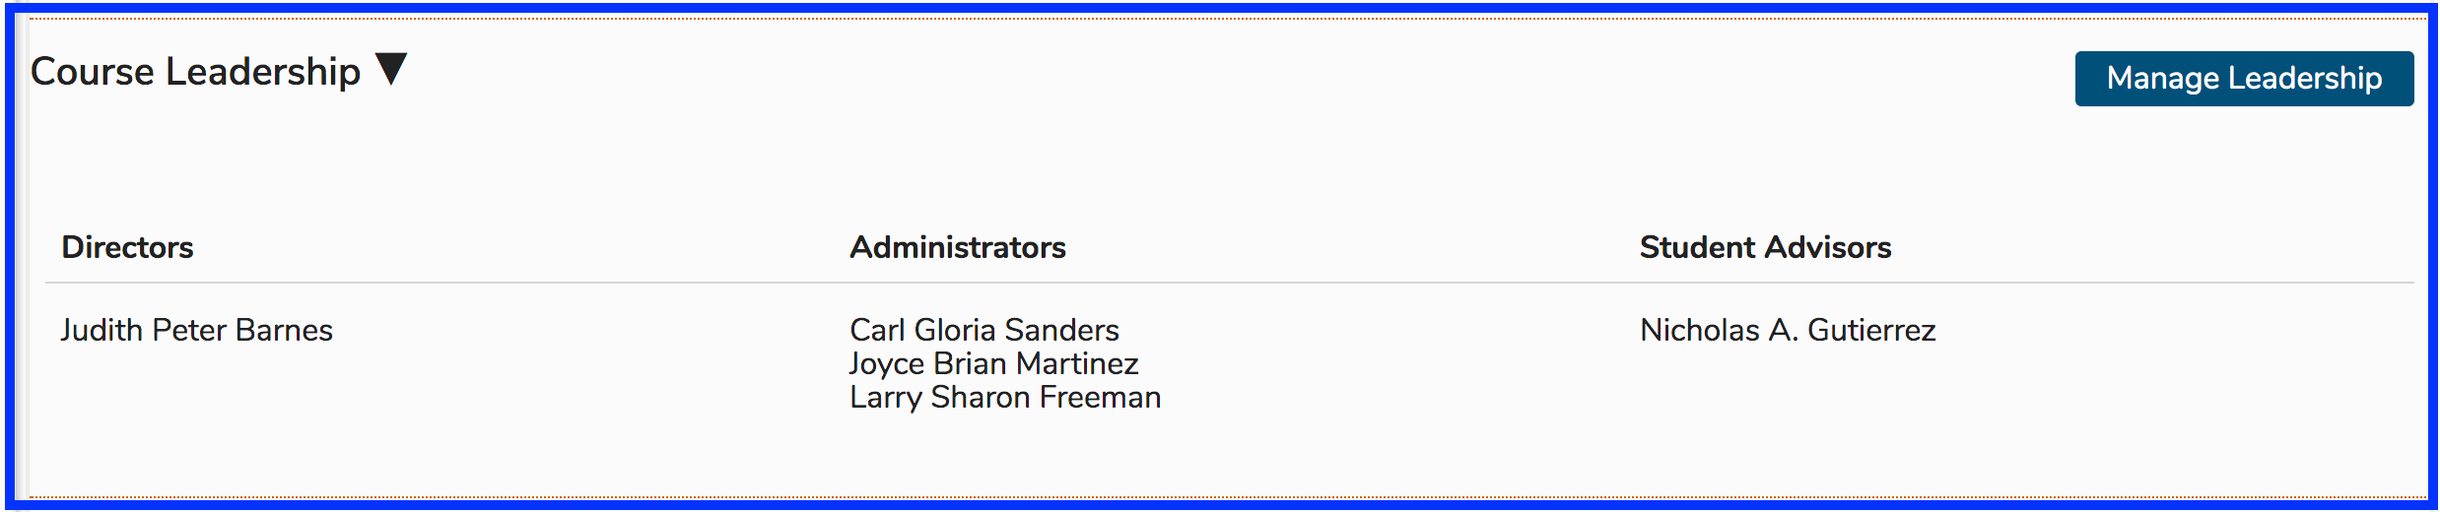
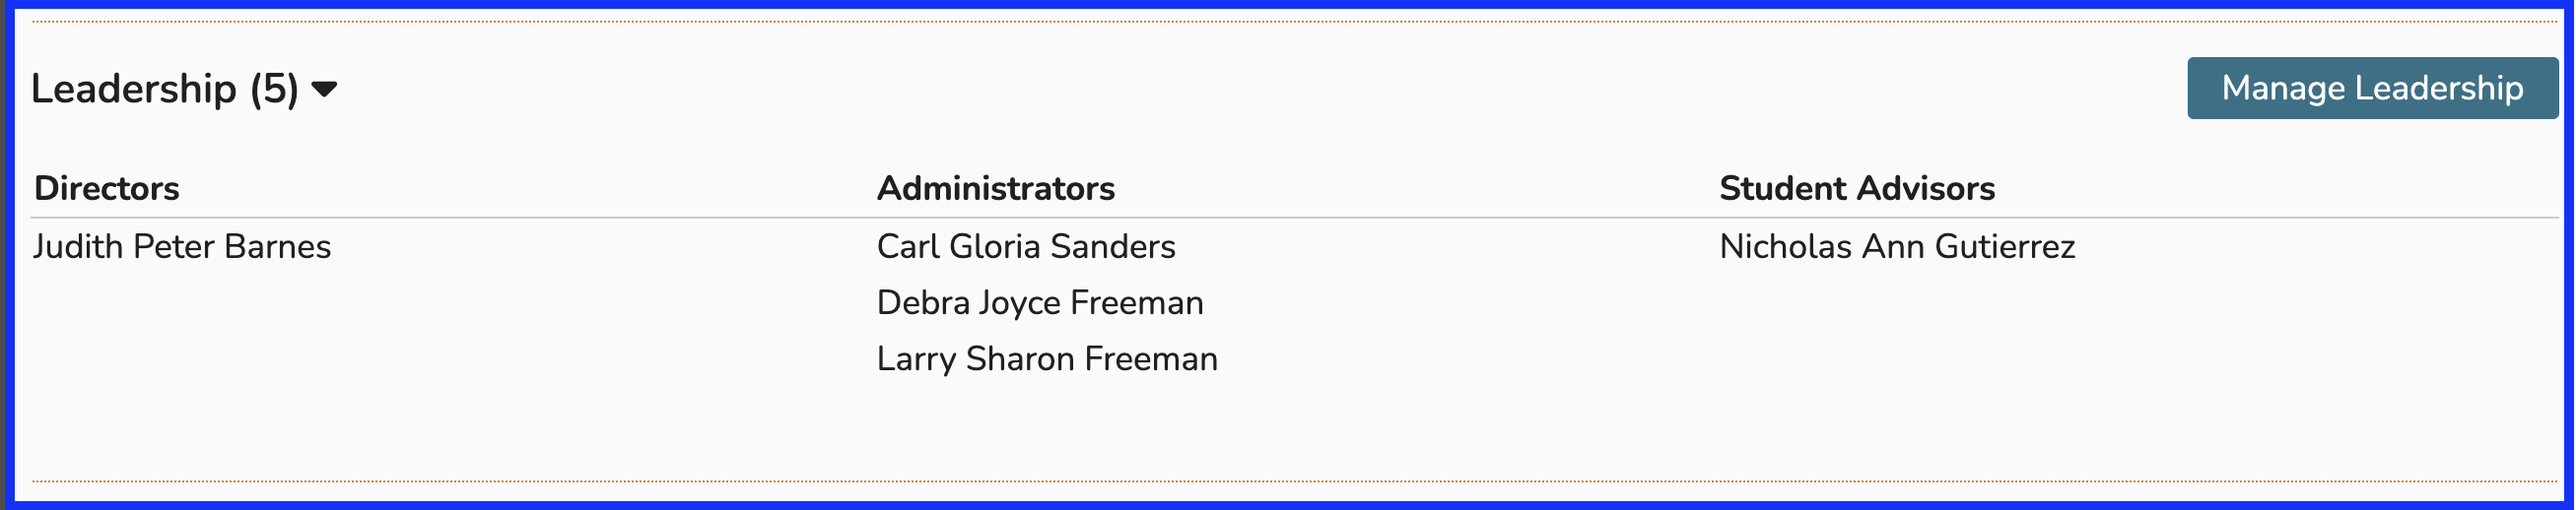
text updated - image replaced

Changed region(s): [[0.0, 0.0, 1.0, 1.0], [0.6531, 0.6178, 0.8086, 0.6795]]

diff --git a/courses-and-sessions/courses/course-leadership.md b/courses-and-sessions/courses/course-leadership.md
@@ -57,9 +57,9 @@ The pre-save screen appears as shown below. The user "Carl Gloria Sanders" has b
 
 ![user added](../../images/course_leadership/user_added.png)
 
-After processing the save event as shown above, the changes are correctly reflected in the Course Leadership detail shown below. The Course Leadership details are still expanded.
-
 ## Expanded View
+
+After processing the save event as shown above, the changes are correctly reflected in the Leadership detail shown below. The Leadership details are still expanded.
 
 ![expanded view](../../images/course_leadership/expanded_view.png)
 
